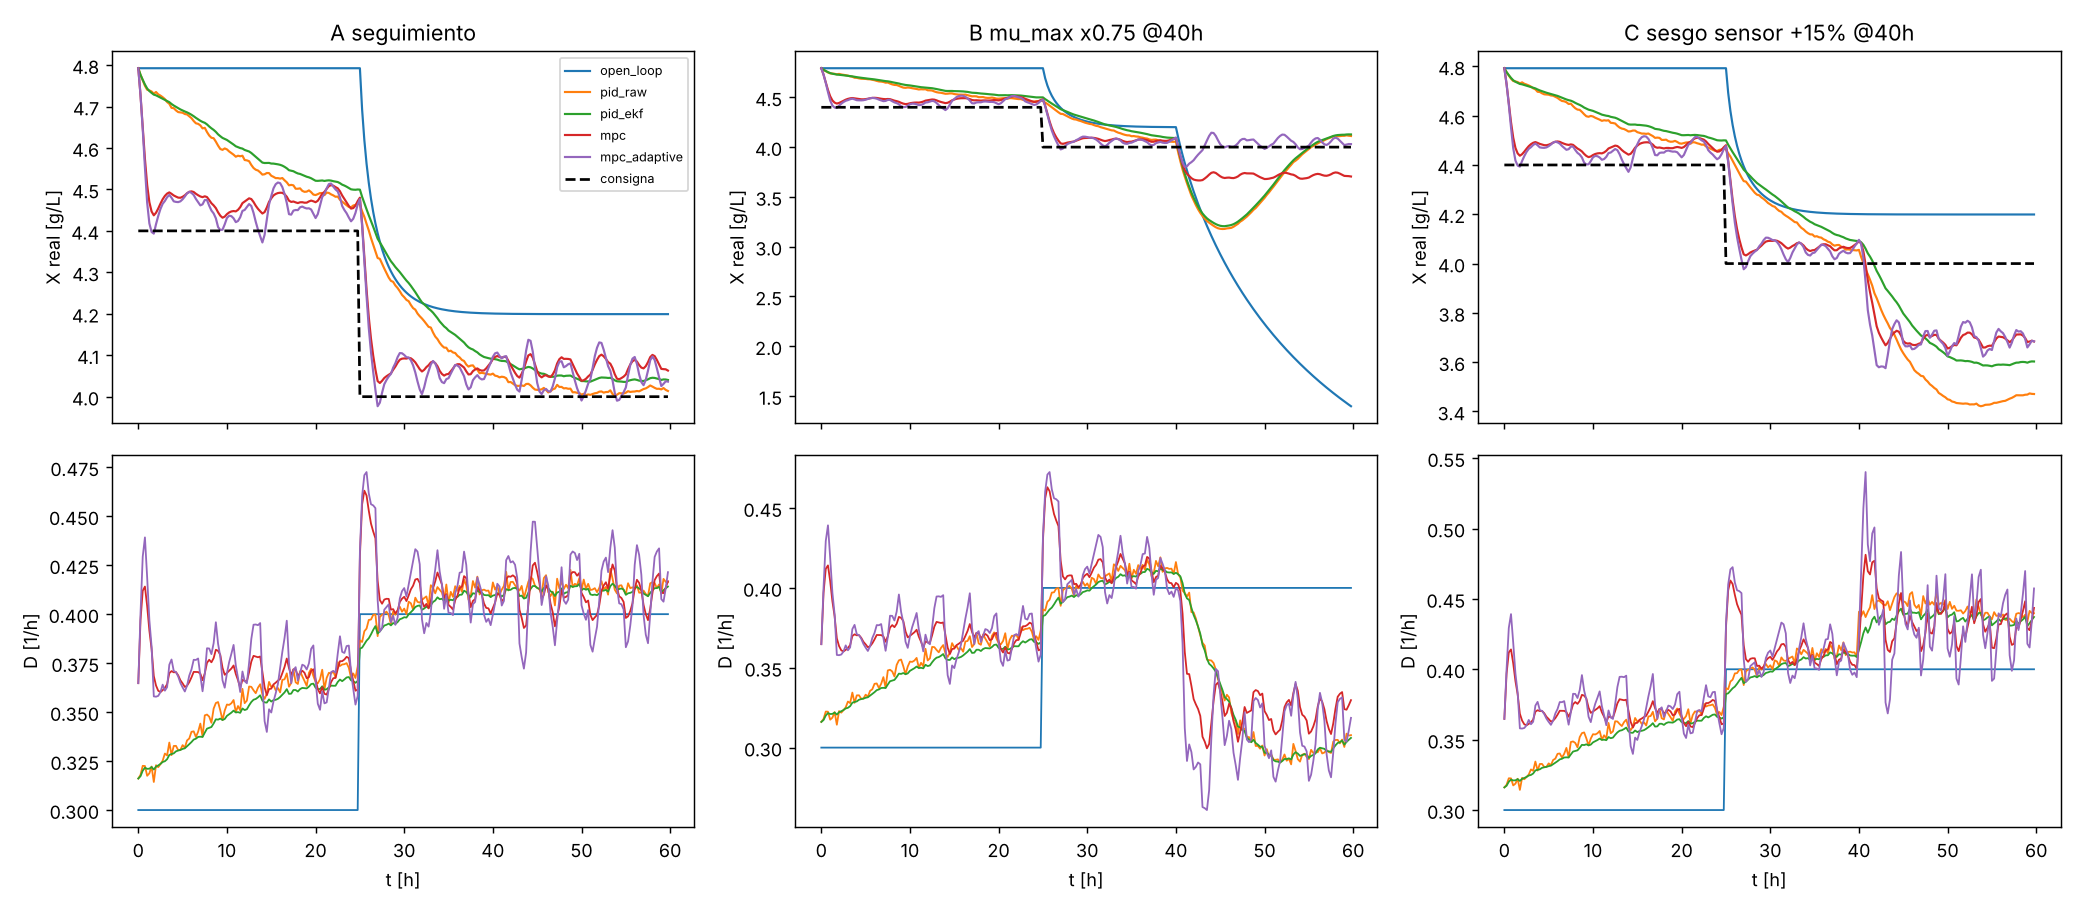
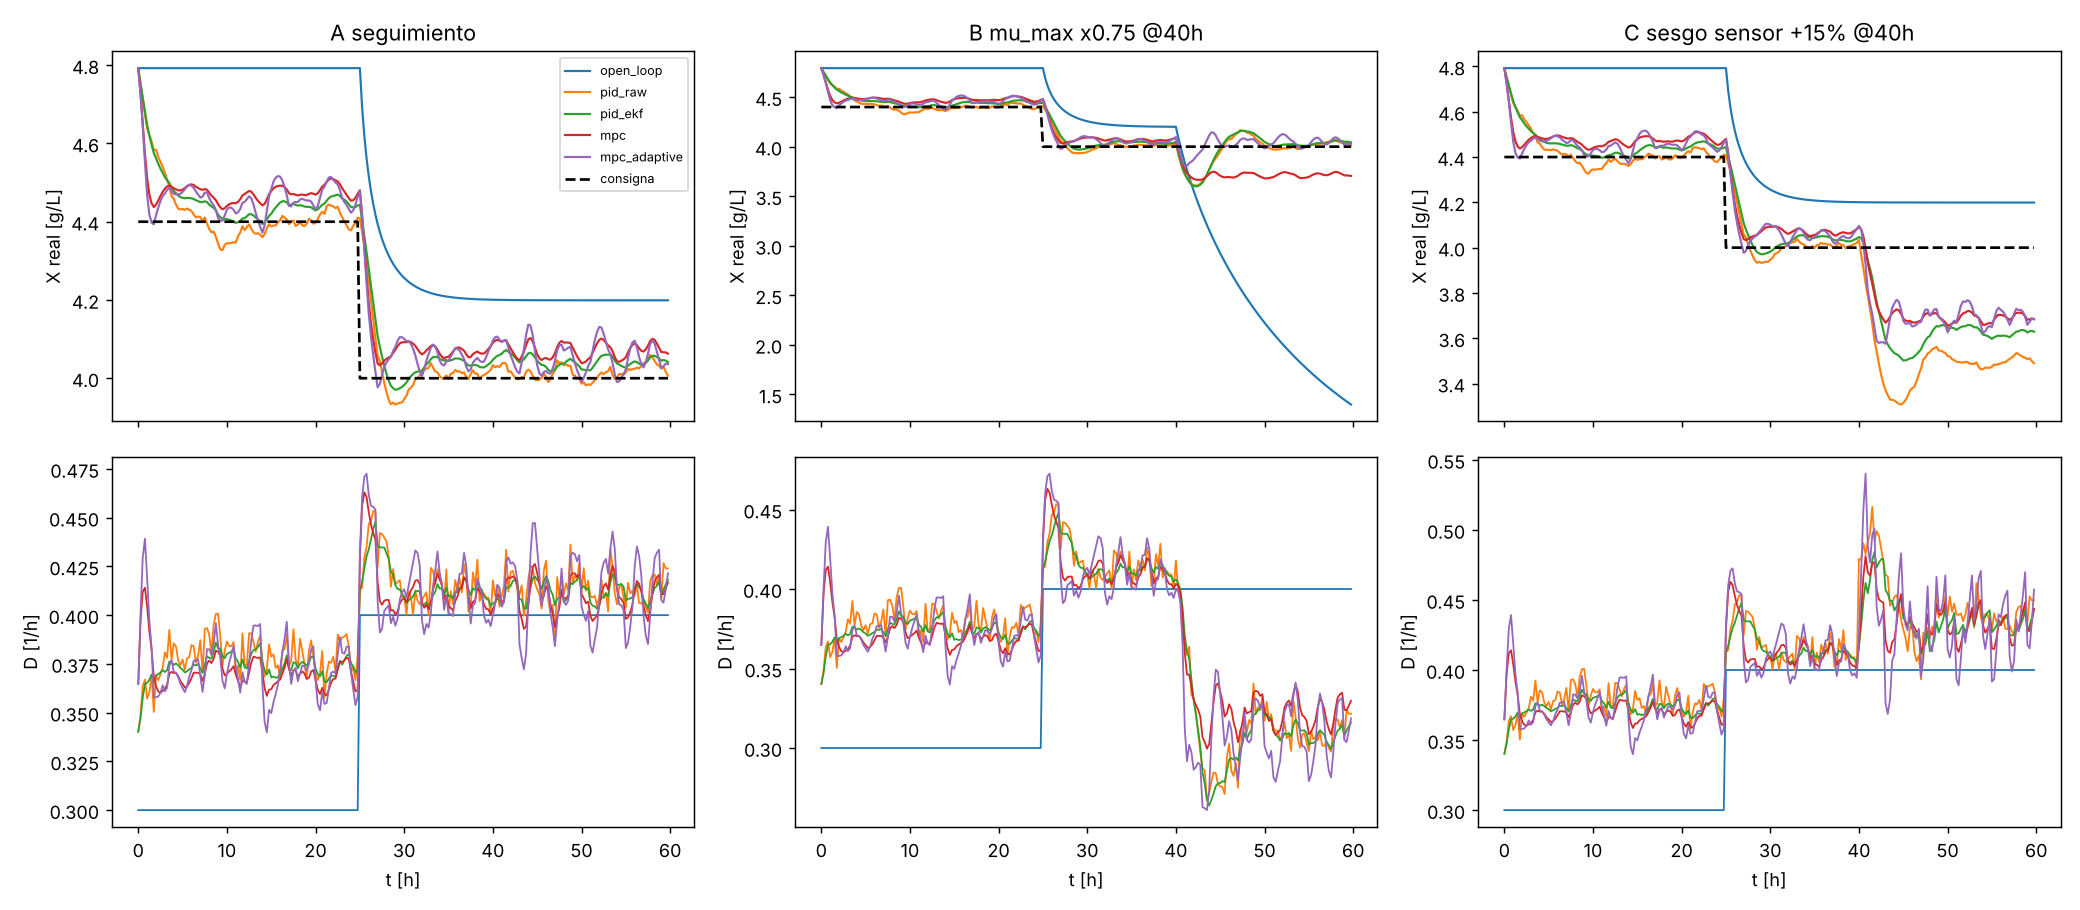
Fase 5 completa: tabla final con PID ajustado, conclusiones y limitaciones; README
Claude-Session: https://claude.ai/code/session_0197sV2S6PsfSVXDaqj8ZQTd

diff --git a/PROGRESS.md b/PROGRESS.md
@@ -32,14 +32,34 @@ datos sintéticos no prueban nada sobre biología real.
 - F5 PID y MPC (`control.py`, `loop.py`). El MPC con r=0.5 hacía vibrar la bomba por ruido;
   se subió a r=20 (compromiso IAE/vibración, no un óptimo).
 
-**Pendiente / sin verificar:** resultados de `scripts/05_control.py` (comparación de controladores,
-aún ejecutándose al hacer este commit); parámetros ILUSTRATIVOS, no medidos; dataset real publicado.
+**Pendiente / sin verificar:** parámetros ILUSTRATIVOS, no medidos; dataset real publicado.
 
 ### Corrección (fase 5)
 El PID inicial (Kp=0.04, Ki=0.015) estaba mal ajustado: IAE 13.0 frente a 4.35 con Kp=0.1, Ki=0.1
 (barrido en `scripts/05b_tune_pid.py`, semillas de entrenamiento 100-103, evaluación en 0-5).
 Con el PID ajustado la ventaja del MPC adaptativo sobre el PID es mucho menor que en la primera
-tabla. **La tabla final de `scripts/05_control.py` se está regenerando con el PID ajustado;
-la figura `docs/figures/fase5_control.png` de este commit puede ser aún la antigua.**
-Observaciones ya verificadas: sesgo +15 % en el sensor engaña a todos los controladores
+tabla. Observaciones ya verificadas: sesgo +15 % en el sensor engaña a todos los controladores
 (error 0.3-0.56 g/L); la bandera "lavado" (X<0.5) no se activa en 20 h porque el lavado es lento.
+
+### Resultados finales fase 5 (6 semillas, media ± sd; datos y parámetros SINTÉTICOS/ILUSTRATIVOS)
+IAE [g·h/L] (menor = mejor) | TV(D) = vibración de la bomba
+
+| Controlador | A seguimiento | B mu_max x0.75 | C sesgo sensor +15 % | TV(D) en A |
+|---|---|---|---|---|
+| lazo abierto | 17.6 ± 10.4 | 43.7 ± 8.2 | 17.6 ± 10.4 | 0.10 |
+| PID sobre sensor crudo | 2.6 ± 0.5 | 4.2 ± 0.7 | 12.1 ± 0.4 | 2.12 |
+| PID sobre estimación EKF | 3.2 ± 1.0 | 4.8 ± 1.1 | 10.1 ± 0.5 | 0.65 |
+| MPC modelo nominal | 6.0 ± 6.8 | 9.6 ± 2.6 | 9.8 ± 2.3 | 0.90 |
+| MPC adaptativo (theta) | 3.7 ± 1.7 | 3.9 ± 1.4 | 9.0 ± 0.9 | 1.86 |
+
+**Lo que se puede afirmar:** el lazo cerrado supera claramente al abierto; el MPC adaptativo mejora
+claramente al MPC sin adaptar (B: 3.9 vs 9.6); el filtrado por EKF reduce 3x la vibración de la bomba
+frente al PID sobre sensor crudo; un sesgo de sensor degrada TODOS los controladores (error 0.3-0.5 g/L).
+**Lo que NO se puede afirmar:** que el MPC adaptativo sea mejor que un PID bien ajustado (diferencias
+dentro del ruido con 6 semillas). Posible sesgo: el PID se ajustó con un barrido (20 combinaciones) y
+el MPC solo en r; horizonte y pesos del MPC no se optimizaron. Sin explicar: los MPC oscilan ±0.1 g/L
+(periodo ~3 h); hipótesis NO verificada: interacción con la dinámica de theta del EKF.
+La bandera "lavado" (X<0.5) nunca salta: el lavado con D apenas sobre D_crit es lento (>20 h).
+
+**Siguiente:** (1) dataset real publicado con procedencia; (2) cerrar el lazo con el monitor
+(reacción automática a alarmas de sensor); (3) explicar/eliminar la oscilación del MPC.

diff --git a/README.md b/README.md
@@ -1,2 +1,16 @@
-# Automative-Laboratories
-Tesis proyect
+# Automative Laboratories — Fabricación biológica autónoma
+
+Proyecto de aprendizaje y desarrollo (bioingeniería): biorreactor digital con modelo, sensores
+simulados, estimación de estado, detección de fallos y control. Todo 100 % digital.
+
+```bash
+pip install -r requirements.txt
+python -m pytest -q                       # 23 tests
+PYTHONPATH=src python scripts/01_growth_milestone.py   # F1 crecimiento
+PYTHONPATH=src python scripts/02_monod.py              # F2 Monod
+PYTHONPATH=src python scripts/03_reactor.py            # F3 biorreactor
+PYTHONPATH=src python scripts/04_monitoring.py         # F4 EKF + fallos
+PYTHONPATH=src python scripts/05_control.py 6          # F5 control (≈ 15 min)
+```
+**Aviso:** los parámetros (mu_max, Ks, Y...) son ilustrativos, no medidos; los datos son sintéticos.
+Estado, resultados y limitaciones: ver `PROGRESS.md`.
